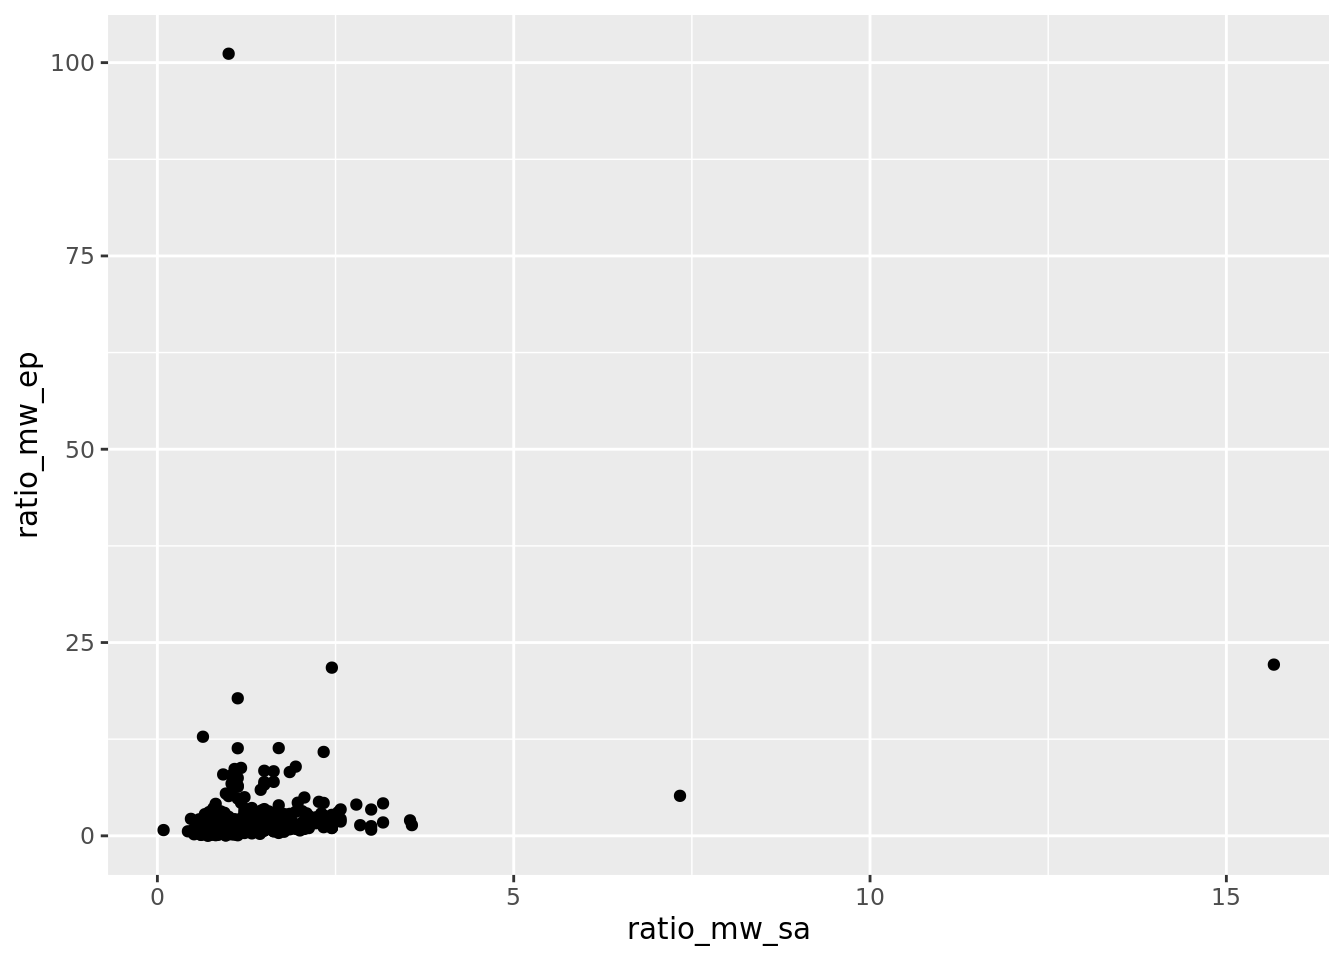
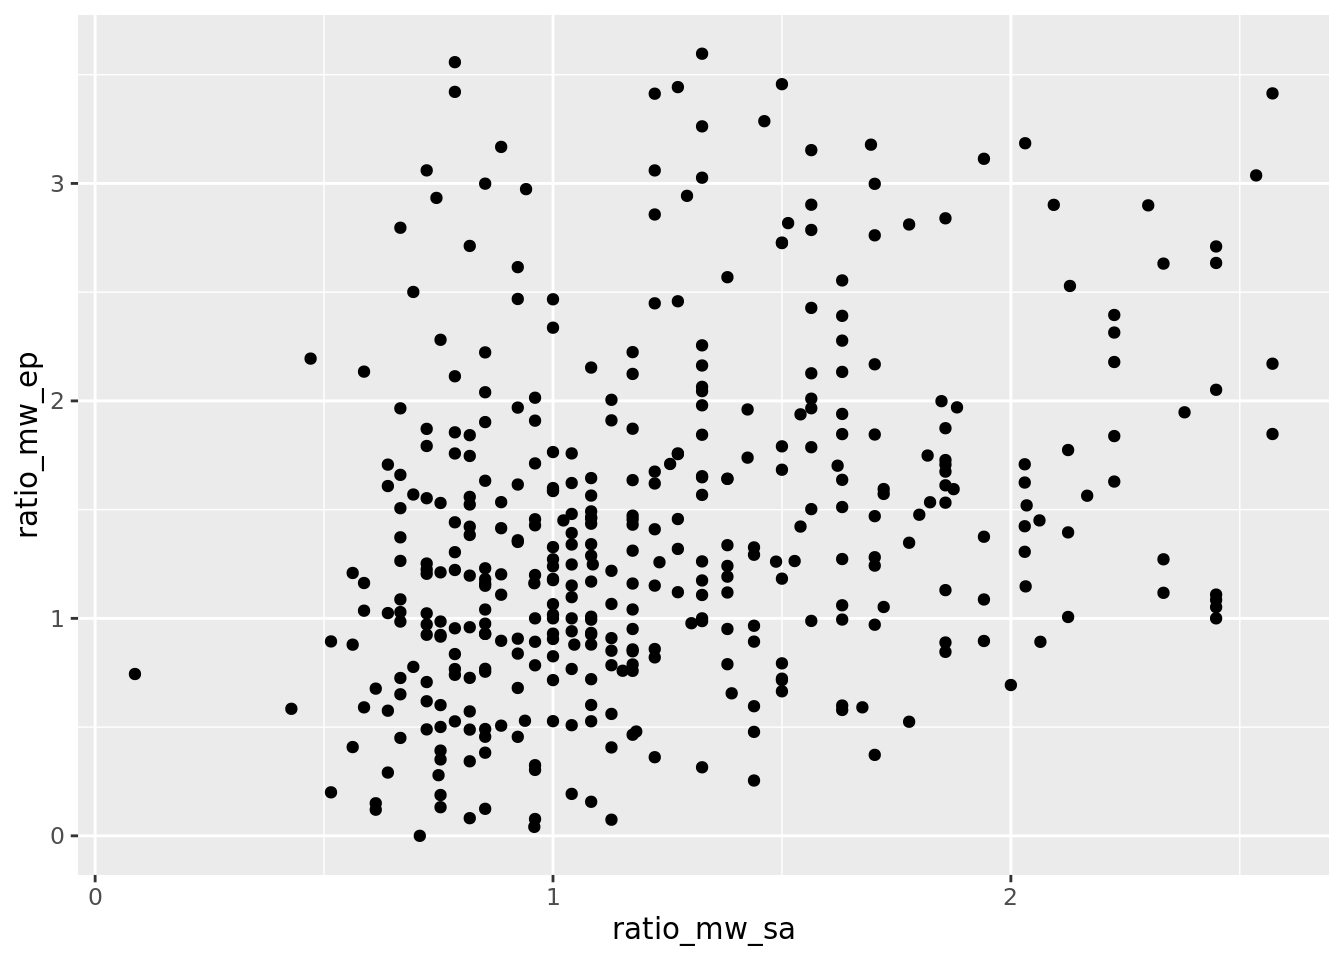
outliers priv

diff --git a/docs/report.html b/docs/report.html
@@ -269,12 +269,41 @@ $ ratio_mw_ep         &lt;dbl&gt; 1.1985337, 2.4287042, 1.3413262, 1.3052437, 6.
 <span id="cb5-5"><a href="#cb5-5" aria-hidden="true" tabindex="-1"></a>        classification_name <span class="sc">==</span> <span class="st">"NCAA Division II with football"</span> <span class="sc">|</span></span>
 <span id="cb5-6"><a href="#cb5-6" aria-hidden="true" tabindex="-1"></a>        classification_name <span class="sc">==</span> <span class="st">"NCAA Division II without football"</span> <span class="sc">|</span> </span>
 <span id="cb5-7"><a href="#cb5-7" aria-hidden="true" tabindex="-1"></a>        classification_name <span class="sc">==</span> <span class="st">"NCAA Division III with football"</span> <span class="sc">|</span></span>
-<span id="cb5-8"><a href="#cb5-8" aria-hidden="true" tabindex="-1"></a>        classification_name <span class="sc">==</span> <span class="st">"NCAA Division III without football"</span>)</span></code><button title="Copy to Clipboard" class="code-copy-button"><i class="bi"></i></button></pre></div>
+<span id="cb5-8"><a href="#cb5-8" aria-hidden="true" tabindex="-1"></a>        classification_name <span class="sc">==</span> <span class="st">"NCAA Division III without football"</span>)</span>
+<span id="cb5-9"><a href="#cb5-9" aria-hidden="true" tabindex="-1"></a></span>
+<span id="cb5-10"><a href="#cb5-10" aria-hidden="true" tabindex="-1"></a></span>
+<span id="cb5-11"><a href="#cb5-11" aria-hidden="true" tabindex="-1"></a>Q1_NCAA_ep <span class="ot">&lt;-</span> <span class="fu">quantile</span>(eada_NCAA<span class="sc">$</span>ratio_mw_ep, .<span class="dv">25</span>)</span>
+<span id="cb5-12"><a href="#cb5-12" aria-hidden="true" tabindex="-1"></a>Q1_NCAA_sa <span class="ot">&lt;-</span> <span class="fu">quantile</span>(eada_NCAA<span class="sc">$</span>ratio_mw_sa, .<span class="dv">25</span>)</span>
+<span id="cb5-13"><a href="#cb5-13" aria-hidden="true" tabindex="-1"></a></span>
+<span id="cb5-14"><a href="#cb5-14" aria-hidden="true" tabindex="-1"></a>Q3_NCAA_ep <span class="ot">&lt;-</span> <span class="fu">quantile</span>(eada_NCAA<span class="sc">$</span>ratio_mw_ep, .<span class="dv">75</span>)</span>
+<span id="cb5-15"><a href="#cb5-15" aria-hidden="true" tabindex="-1"></a>Q3_NCAA_sa <span class="ot">&lt;-</span> <span class="fu">quantile</span>(eada_NCAA<span class="sc">$</span>ratio_mw_sa, .<span class="dv">75</span>)</span>
+<span id="cb5-16"><a href="#cb5-16" aria-hidden="true" tabindex="-1"></a></span>
+<span id="cb5-17"><a href="#cb5-17" aria-hidden="true" tabindex="-1"></a>IQR_NCAA_ep <span class="ot">&lt;-</span> <span class="fu">IQR</span>(eada_NCAA<span class="sc">$</span>ratio_mw_ep)</span>
+<span id="cb5-18"><a href="#cb5-18" aria-hidden="true" tabindex="-1"></a>IQR_NCAA_sa <span class="ot">&lt;-</span> <span class="fu">IQR</span>(eada_NCAA<span class="sc">$</span>ratio_mw_sa)</span>
+<span id="cb5-19"><a href="#cb5-19" aria-hidden="true" tabindex="-1"></a></span>
+<span id="cb5-20"><a href="#cb5-20" aria-hidden="true" tabindex="-1"></a>eada_NCAA <span class="ot">&lt;-</span> <span class="fu">subset</span>(eada_NCAA, eada_NCAA<span class="sc">$</span>ratio_mw_ep<span class="sc">&gt;</span> (Q1_NCAA_ep <span class="sc">-</span> <span class="fl">1.5</span><span class="sc">*</span>IQR_NCAA_ep) <span class="sc">&amp;</span> eada_NCAA<span class="sc">$</span>ratio_mw_ep<span class="sc">&lt;</span> (Q3_NCAA_ep <span class="sc">+</span> <span class="fl">1.5</span><span class="sc">*</span>IQR_NCAA_ep))</span>
+<span id="cb5-21"><a href="#cb5-21" aria-hidden="true" tabindex="-1"></a></span>
+<span id="cb5-22"><a href="#cb5-22" aria-hidden="true" tabindex="-1"></a>eada_NCAA <span class="ot">&lt;-</span> <span class="fu">subset</span>(eada_NCAA, eada_NCAA<span class="sc">$</span>ratio_mw_sa<span class="sc">&gt;</span> (Q1_NCAA_sa <span class="sc">-</span> <span class="fl">1.5</span><span class="sc">*</span>IQR_NCAA_sa) <span class="sc">&amp;</span> eada_NCAA<span class="sc">$</span>ratio_mw_sa<span class="sc">&lt;</span> (Q3_NCAA_sa <span class="sc">+</span> <span class="fl">1.5</span><span class="sc">*</span>IQR_NCAA_sa))</span></code><button title="Copy to Clipboard" class="code-copy-button"><i class="bi"></i></button></pre></div>
 </div>
 <div class="cell">
 <div class="sourceCode cell-code" id="cb6"><pre class="sourceCode r code-with-copy"><code class="sourceCode r"><span id="cb6-1"><a href="#cb6-1" aria-hidden="true" tabindex="-1"></a>eada_private <span class="ot">&lt;-</span> eada <span class="sc">|&gt;</span></span>
 <span id="cb6-2"><a href="#cb6-2" aria-hidden="true" tabindex="-1"></a>  <span class="fu">filter</span>(sector_name <span class="sc">==</span> <span class="st">"Private nonprofit, 4-year or above"</span> <span class="sc">|</span> </span>
-<span id="cb6-3"><a href="#cb6-3" aria-hidden="true" tabindex="-1"></a>         sector_name <span class="sc">==</span> <span class="st">"Private for-profit, 4-year or above"</span>)</span></code><button title="Copy to Clipboard" class="code-copy-button"><i class="bi"></i></button></pre></div>
+<span id="cb6-3"><a href="#cb6-3" aria-hidden="true" tabindex="-1"></a>         sector_name <span class="sc">==</span> <span class="st">"Private for-profit, 4-year or above"</span>)</span>
+<span id="cb6-4"><a href="#cb6-4" aria-hidden="true" tabindex="-1"></a></span>
+<span id="cb6-5"><a href="#cb6-5" aria-hidden="true" tabindex="-1"></a></span>
+<span id="cb6-6"><a href="#cb6-6" aria-hidden="true" tabindex="-1"></a></span>
+<span id="cb6-7"><a href="#cb6-7" aria-hidden="true" tabindex="-1"></a>Q1_priv_ep <span class="ot">&lt;-</span> <span class="fu">quantile</span>(eada_private<span class="sc">$</span>ratio_mw_ep, .<span class="dv">25</span>)</span>
+<span id="cb6-8"><a href="#cb6-8" aria-hidden="true" tabindex="-1"></a>Q1_priv_sa <span class="ot">&lt;-</span> <span class="fu">quantile</span>(eada_private<span class="sc">$</span>ratio_mw_sa, .<span class="dv">25</span>)</span>
+<span id="cb6-9"><a href="#cb6-9" aria-hidden="true" tabindex="-1"></a></span>
+<span id="cb6-10"><a href="#cb6-10" aria-hidden="true" tabindex="-1"></a>Q3_priv_ep <span class="ot">&lt;-</span> <span class="fu">quantile</span>(eada_private<span class="sc">$</span>ratio_mw_ep, .<span class="dv">75</span>)</span>
+<span id="cb6-11"><a href="#cb6-11" aria-hidden="true" tabindex="-1"></a>Q3_priv_sa <span class="ot">&lt;-</span> <span class="fu">quantile</span>(eada_private<span class="sc">$</span>ratio_mw_sa, .<span class="dv">75</span>)</span>
+<span id="cb6-12"><a href="#cb6-12" aria-hidden="true" tabindex="-1"></a></span>
+<span id="cb6-13"><a href="#cb6-13" aria-hidden="true" tabindex="-1"></a>IQR_priv_ep <span class="ot">&lt;-</span> <span class="fu">IQR</span>(eada_private<span class="sc">$</span>ratio_mw_ep)</span>
+<span id="cb6-14"><a href="#cb6-14" aria-hidden="true" tabindex="-1"></a>IQR_priv_sa <span class="ot">&lt;-</span> <span class="fu">IQR</span>(eada_private<span class="sc">$</span>ratio_mw_sa)</span>
+<span id="cb6-15"><a href="#cb6-15" aria-hidden="true" tabindex="-1"></a></span>
+<span id="cb6-16"><a href="#cb6-16" aria-hidden="true" tabindex="-1"></a>eada_private <span class="ot">&lt;-</span> <span class="fu">subset</span>(eada_private, eada_private<span class="sc">$</span>ratio_mw_ep<span class="sc">&gt;</span> (Q1_priv_ep <span class="sc">-</span> <span class="fl">1.5</span><span class="sc">*</span>IQR_priv_ep) <span class="sc">&amp;</span> eada_private<span class="sc">$</span>ratio_mw_ep<span class="sc">&lt;</span> (Q3_priv_ep <span class="sc">+</span> <span class="fl">1.5</span><span class="sc">*</span>IQR_priv_ep))</span>
+<span id="cb6-17"><a href="#cb6-17" aria-hidden="true" tabindex="-1"></a></span>
+<span id="cb6-18"><a href="#cb6-18" aria-hidden="true" tabindex="-1"></a>eada_private <span class="ot">&lt;-</span> <span class="fu">subset</span>(eada_private, eada_private<span class="sc">$</span>ratio_mw_sa<span class="sc">&gt;</span> (Q1_priv_sa <span class="sc">-</span> <span class="fl">1.5</span><span class="sc">*</span>IQR_priv_sa) <span class="sc">&amp;</span> eada_private<span class="sc">$</span>ratio_mw_sa<span class="sc">&lt;</span> (Q3_priv_sa <span class="sc">+</span> <span class="fl">1.5</span><span class="sc">*</span>IQR_priv_sa))</span></code><button title="Copy to Clipboard" class="code-copy-button"><i class="bi"></i></button></pre></div>
 </div>
 <div class="cell">
 <div class="sourceCode cell-code" id="cb7"><pre class="sourceCode r code-with-copy"><code class="sourceCode r"><span id="cb7-1"><a href="#cb7-1" aria-hidden="true" tabindex="-1"></a>eada_public <span class="ot">&lt;-</span> eada <span class="sc">|&gt;</span></span>
